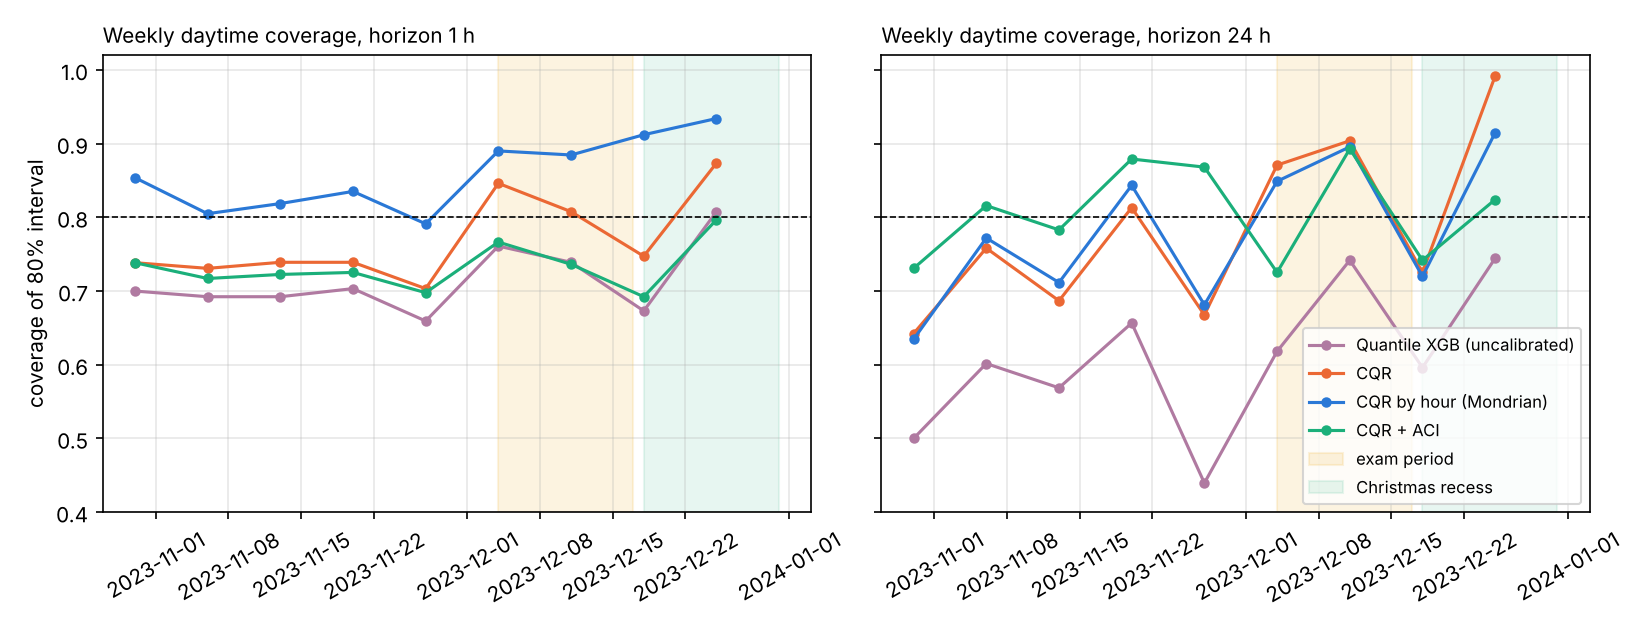
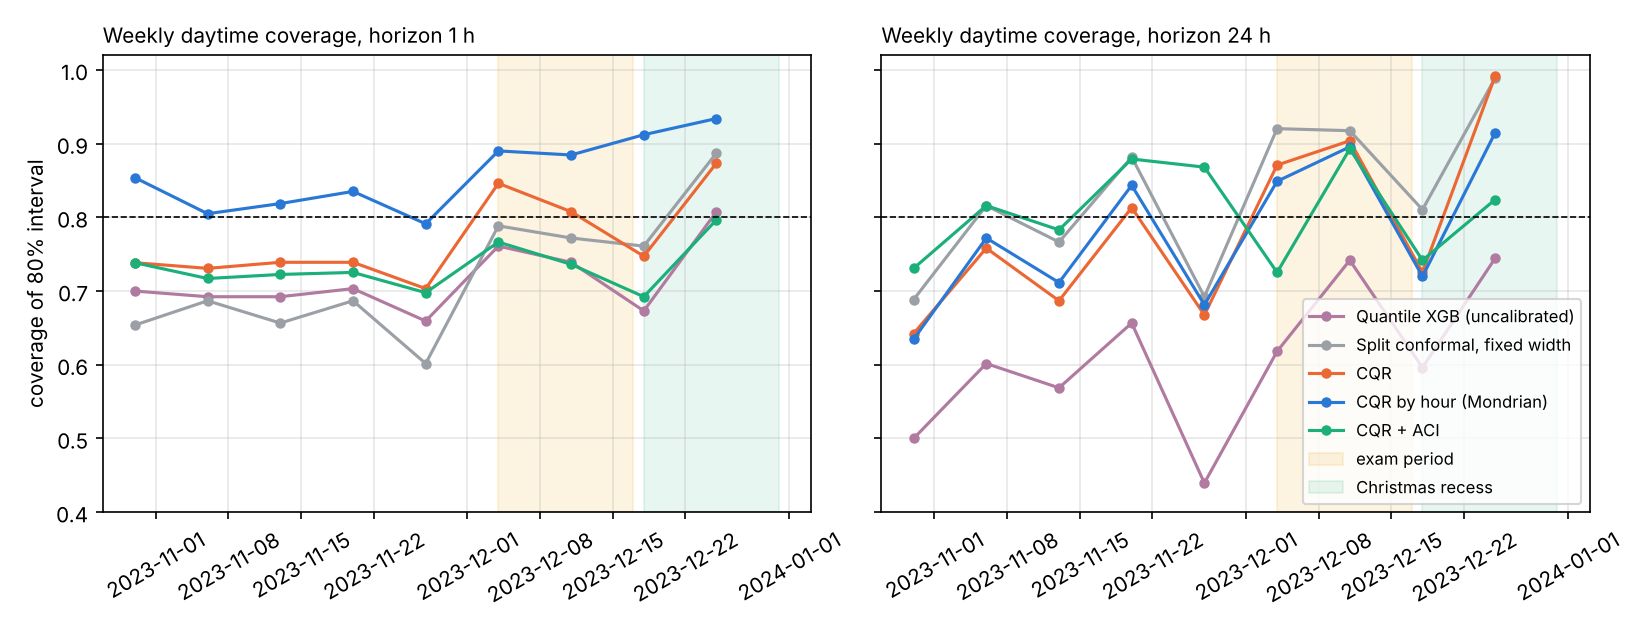
Figure 5: add fixed-width method to weekly coverage plot

diff --git a/project/07_evaluate.py b/project/07_evaluate.py
@@ -138,7 +138,7 @@ fig.tight_layout(); fig.savefig(RESULTS / "fig_reliability.png", dpi=150)
 wk = pd.read_csv(RESULTS / "conformal_weekly.csv", parse_dates=["week_start"])
 fig, axes = plt.subplots(1, 2, figsize=(11, 4.2), sharey=True)
 for ax, H in zip(axes, [4, 96]):
-    for meth in ["qr", "cqr", "cqr_hour", "aci"]:
+    for meth in ["qr", "abs", "cqr", "cqr_hour", "aci"]:
         g = wk[(wk.H == H) & (wk.method == meth)]
         ax.plot(g["week_start"], g["coverage"], marker="o", ms=4, color=colors.get(meth, "#c4c7cc") if meth != "qr" else "#b07aa1", label=NAMES[meth])
     ax.axhline(0.8, color="black", lw=.8, ls="--")
